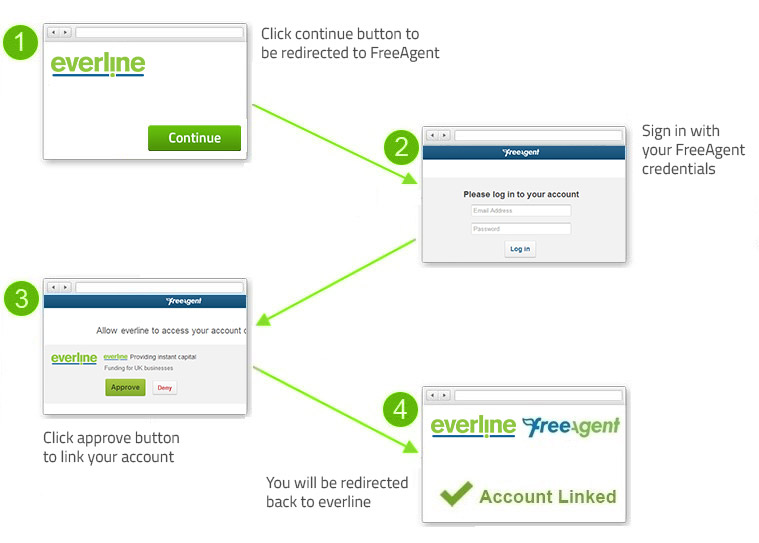
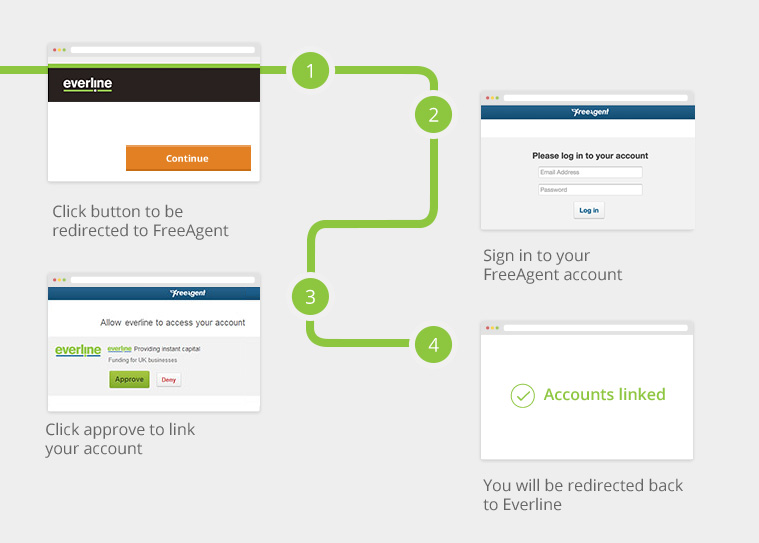
EZ-3874 MRK-258 facelift new popup images for mps

diff --git a/App/PluginWeb/EzBob.Web/Content/css/EverlineCustomerProfile.css b/App/PluginWeb/EzBob.Web/Content/css/EverlineCustomerProfile.css
@@ -5,7 +5,7 @@
 *
 *******************************************************************************
 */
-
+/*
 .main-page-everline a,
 .main-page-everline a:visited {
 	text-decoration: none;
@@ -14,7 +14,7 @@
 	font-weight: 600;
 	font-size: 14px;
 }
-
+*/
 /*
 *******************************************************************************
 *
@@ -22,7 +22,7 @@
 *
 *******************************************************************************
 */
-
+/*
 .main-page-everline .ev-btn-org {
 	margin-left: 5%;
 	line-height: 34px;
@@ -56,7 +56,7 @@
 .main-page-everline a.ev-btn-org:hover {
 	color: white!important;
 }
-
+*/
 /*
 *******************************************************************************
 *
@@ -115,7 +115,7 @@
 	padding: 10px;
 	font-size: 14px;
 	text-align: left;
-	font-family: Open Sans!important;
+	font-family: 'Open Sans',sans-serif !important;
 }
 
 .main-page-everline table td {
@@ -125,7 +125,7 @@
 	padding: 10px;
 	font-size: 14px;
 	text-align: left;
-	font-family: Open Sans!important;
+	font-family: 'Open Sans',sans-serif !important;
 }
 
 /*
@@ -254,14 +254,14 @@
 }
 
 .main-page-everline #get-cash h1 {
-	font-family: Open Sans;
+	font-family: 'Open Sans',sans-serif;
 	font-size: 24px;
 	color: #666666;
 	font-weight: bold;
 }
 
 .main-page-everline #get-cash h2 {
-	font-family: Open Sans;
+	font-family: 'Open Sans',sans-serif;
 	font-size: 22px;
 	color: #8dc641;
 	font-weight: bold;

diff --git a/App/PluginWeb/EzBob.Web/Content/css/Everlinecustomer.css b/App/PluginWeb/EzBob.Web/Content/css/Everlinecustomer.css
@@ -407,13 +407,9 @@ a, a:visited {
     background-color: white !important;
 }
 
-.form_field_container .input-wrapper .clean-btn{
-	float: left;
-    width: 42%;
-	margin-left: 5%;
-}
-
 .clean-btn,
+a.clean-btn,
+a.clean-btn:focus,
 .clean-btn:focus,
  .simpleCaptcha a,
 .ui-widget button.clean-btn, 
@@ -437,6 +433,12 @@ a, a:visited {
 	display: inline-block;
 }
 
+.form_field_container .input-wrapper .clean-btn{
+	float: left;
+    width: 42%;
+	margin-left: 5%;
+}
+
  .form_field_container .input-wrapper a.clean-btn, .simpleCaptcha a , .broker-captcha a {
     line-height: 42px;
 }
@@ -457,13 +459,10 @@ a, a:visited {
         margin-bottom: 20px;
     }
 
- .form_buttons_container .input-wrapper .ev-btn-org {
-	width: 42%;
-	display: inline;
-	float: right;
-    margin-left: 5%;
-}
 
+ 
+
+a.ev-btn-org,
 .ev-btn-org,
 .ui-widget button.ev-btn-org {
 	font-family: 'Open Sans', sans-serif;
@@ -487,6 +486,15 @@ a, a:visited {
     -moz-box-sizing: border-box;
     box-sizing: border-box;
     text-decoration: none;
+	display: inline-block;
+}
+
+.form_buttons_container .input-wrapper .ev-btn-org,
+.form_buttons_container .input-wrapper a.ev-btn-org {
+	width: 42%;
+	display: inline-block;
+	float: right;
+	margin-left: 5%;
 }
 
 .select {
@@ -1168,6 +1176,7 @@ hr.wizard-hr {
 #cboxContent {
     margin-top: 0;
     overflow: visible;
+	background-color: #eeeeee;
 }
 
 #cboxError {

diff --git a/App/PluginWeb/EzBob.Web/Content/css/everline.css b/App/PluginWeb/EzBob.Web/Content/css/everline.css
@@ -278,6 +278,11 @@ footer.everline_footer {
 		font-family: Arial;
 	}
 
+.help_image {
+    width: 759px;
+    height: 543px;
+}
+
 .help_everline.help_eBay {
 	background: url(../everline/help/help_ebay_everline.jpg) no-repeat center 0;
 	background-size: contain;
